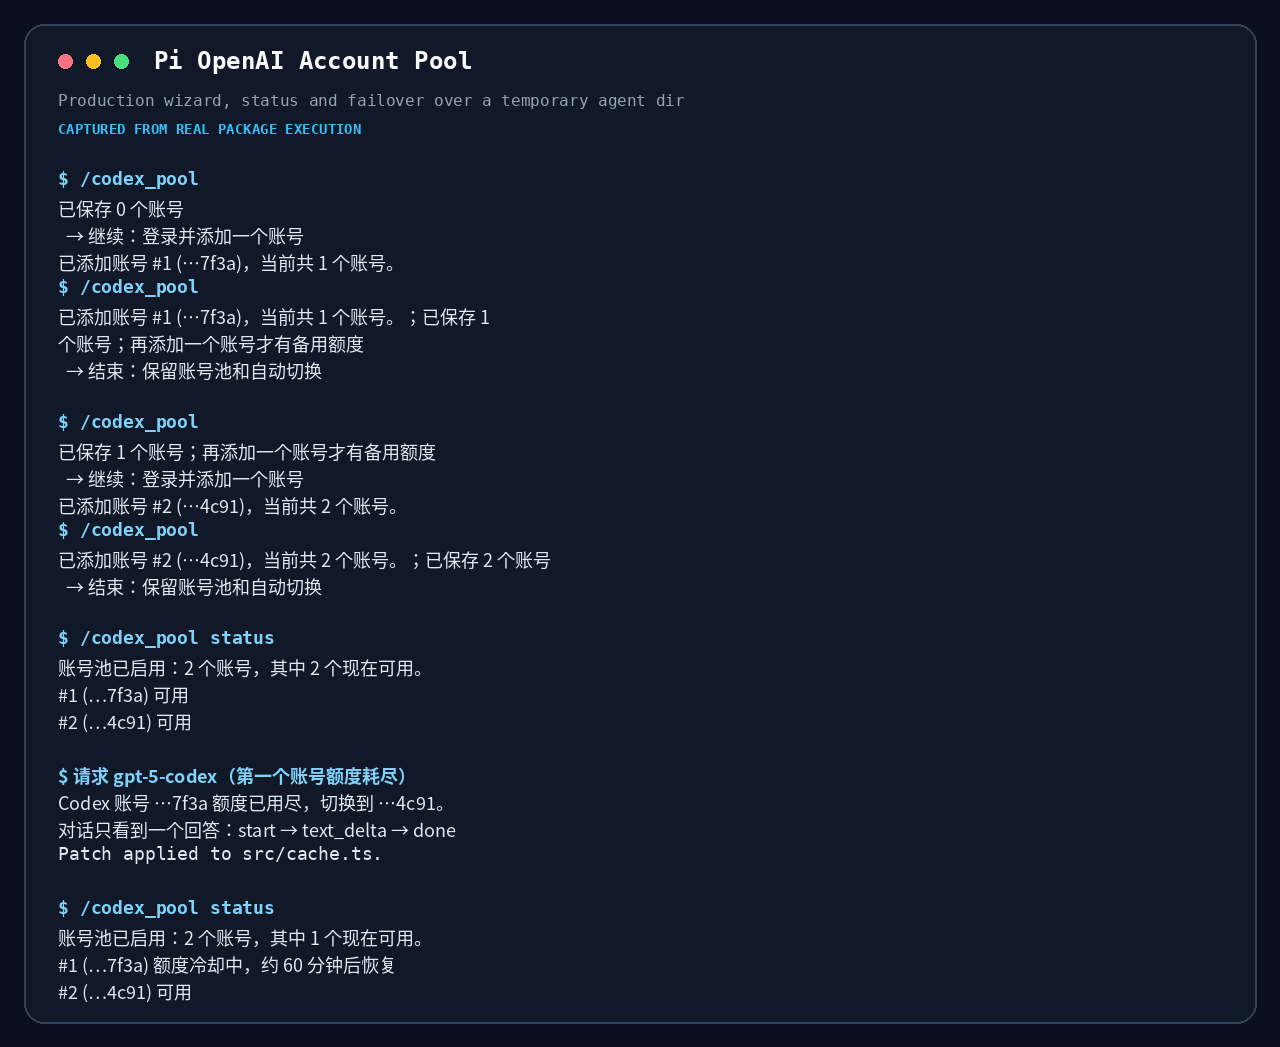
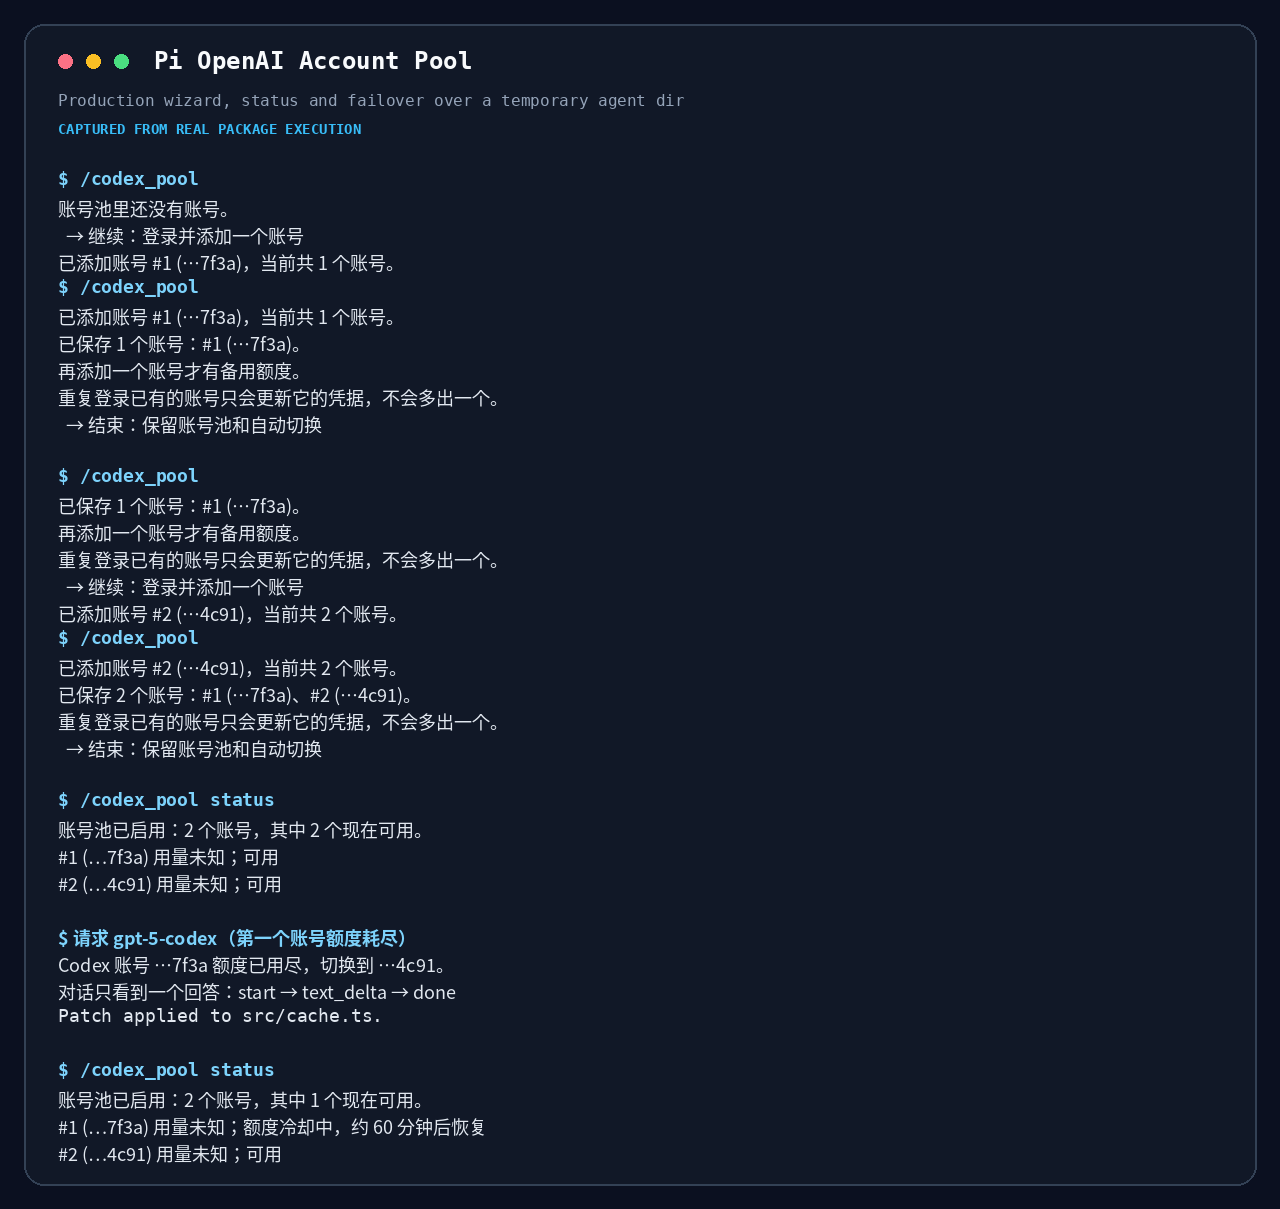
fix(account-pool): defer account preference to new sessions

Changed region(s): [[0.0312, 0.0, 0.9688, 0.978], [0.4062, 0.0611, 0.5, 0.1223]]

diff --git a/packages/openai-account-pool/extensions/openai-account-pool.ts b/packages/openai-account-pool/extensions/openai-account-pool.ts
@@ -40,7 +40,7 @@ const CONTINUE = "继续：登录并添加一个账号";
 const REMOVE = "删除：从账号池里移除一个账号";
 const END = "结束：保留账号池和自动切换";
 const BACK = "返回：什么都不做";
-const AUTOMATIC = "自动：按编号顺序，用着哪个顺手就留在哪个";
+const AUTOMATIC = "自动：新会话按编号顺序，用着哪个顺手就留在哪个";
 const DIALOG_TITLE = "添加 Codex 账号";
 const STATUS_WIDGET_KEY = "openai-account-pool-status";
 const STATUS_VISIBLE_MS = 15_000;
@@ -191,23 +191,23 @@ async function handleCommand(
 			const query = rest.join(" ");
 			if (query === "auto") {
 				await setDefaultAccount({ authPath, statePath, accountId: undefined });
-				ctx.ui.notify("已恢复自动选号。");
+				ctx.ui.notify("已恢复自动选号，将从下一个新会话开始生效；当前会话不变。");
 				return;
 			}
 			const accounts = [...snapshot.accounts].sort((left, right) => left.ordinal - right.ordinal);
 			const current = await readPreferredAccountId(statePath);
 			const chosen = query
 				? resolveAccount(snapshot, query)
-				: await pickAccount(ctx, `默认用哪个账号？当前：${current ? accountLabel(accounts.find((account) => account.id === current) ?? accounts[0]) : "自动"}`, accounts, [AUTOMATIC]);
+				: await pickAccount(ctx, `新会话默认用哪个账号？当前设置：${current ? accountLabel(accounts.find((account) => account.id === current) ?? accounts[0]) : "自动"}`, accounts, [AUTOMATIC]);
 			if (chosen === undefined) return;
 			if (chosen === AUTOMATIC) {
 				await setDefaultAccount({ authPath, statePath, accountId: undefined });
-				ctx.ui.notify("已恢复自动选号。");
+				ctx.ui.notify("已恢复自动选号，将从下一个新会话开始生效；当前会话不变。");
 				return;
 			}
 			const account = chosen as PoolAccount;
 			await setDefaultAccount({ authPath, statePath, accountId: account.id });
-			ctx.ui.notify(`以后从 ${accountLabel(account)} 开始。它额度用完或需要重新授权时，仍会自动切到其他账号。`);
+			ctx.ui.notify(`新会话将从 ${accountLabel(account)} 开始；当前会话不变。它额度用完或需要重新授权时，仍会自动切到其他账号。`);
 			return;
 		}
 
@@ -272,6 +272,7 @@ async function handleCommand(
 export default function openaiAccountPool(pi: ExtensionAPI) {
 	let base: Provider | undefined;
 	let latest: ExtensionContext | undefined;
+	let installedFor: ExtensionContext | undefined;
 	let statusPanel: { component: CodexPoolStatusWidget; tui: { requestRender(): void } } | undefined;
 	let statusController: AbortController | undefined;
 	let statusTimer: ReturnType<typeof setTimeout> | undefined;
@@ -327,41 +328,52 @@ export default function openaiAccountPool(pi: ExtensionAPI) {
 		})();
 	};
 
-	const install = (ctx: ExtensionContext) => {
+	const install = async (ctx: ExtensionContext) => {
 		latest = ctx;
+		if (installedFor === ctx) return;
 		const current = ctx.modelRegistry.getProvider(PROVIDER_ID);
-		if (!current || (current as Record<symbol, unknown>)[POOL_WRAPPER]) {
-			base ??= current;
-			return;
+		if (!current) return;
+		const wrappedBase = (current as Record<symbol, unknown>)[POOL_WRAPPER];
+		if (!base) {
+			if (wrappedBase && wrappedBase !== true) base = wrappedBase as Provider;
+			else if (wrappedBase === true) {
+				// Wrappers from older package versions do not retain their base provider.
+				// Keep them intact until the process restarts instead of wrapping twice.
+				installedFor = ctx;
+				return;
+			} else base = current;
 		}
-		base = current;
 		const { authPath, statePath } = agentPaths();
-		const wrapped = createPoolProvider(current, {
+		const preferredAccountId = await readPreferredAccountId(statePath);
+		const wrapped = createPoolProvider(base, {
 			lazyStream,
 			authPath,
 			statePath,
+			preferredAccountId,
 			// Switch notes go to whichever context is current when the request runs.
 			notify: (message) => latest?.ui.notify(message, "warning"),
 		});
-		Object.defineProperty(wrapped, POOL_WRAPPER, { value: true, enumerable: false });
+		Object.defineProperty(wrapped, POOL_WRAPPER, { value: base, enumerable: false });
 		ctx.modelRegistry.registerProvider(wrapped);
+		installedFor = ctx;
 	};
 
-	pi.on("session_start", (_event, ctx) => {
-		install(ctx);
+	pi.on("session_start", async (_event, ctx) => {
+		await install(ctx);
 	});
 
 	pi.on("session_shutdown", (_event, ctx) => {
 		statusGeneration += 1;
 		if (ctx.mode === "tui") clearStatusPanel(ctx);
-		latest = undefined;
+		if (latest === ctx) latest = undefined;
+		if (installedFor === ctx) installedFor = undefined;
 	});
 
 	pi.registerCommand("codex_pool", {
 		description: "添加并管理多个 ChatGPT 账号，额度耗尽时自动切换",
 		getArgumentCompletions: codexPoolArgumentCompletions,
 		handler: async (args, ctx) => {
-			install(ctx);
+			await install(ctx);
 			await handleCommand(args, ctx, () => base, showTuiStatus);
 		},
 	});

diff --git a/packages/openai-account-pool/src/provider.ts b/packages/openai-account-pool/src/provider.ts
@@ -20,7 +20,7 @@ import {
 	type PoolAccount,
 	type PoolSnapshot,
 } from "./auth.ts";
-import { claimProbeLease, readAvailability, readPreferredAccountId, readSelectionState, recordFailure, recordSuccess, releaseProbeLease } from "./availability.ts";
+import { claimProbeLease, readAvailability, recordFailure, recordSuccess, releaseProbeLease } from "./availability.ts";
 import {
 	classifyFailure,
 	decideFailover,
@@ -49,6 +49,8 @@ export interface PoolRuntime {
 	lazyStream: (model: Model<Api>, setup: () => Promise<AsyncIterable<AssistantMessageEvent>>) => AssistantMessageEventStream;
 	authPath: string;
 	statePath: string;
+	/** Global preference sampled when this session started. Later writes apply to later sessions. */
+	preferredAccountId?: string;
 	now?: () => number;
 	/** Identifies this process while probing a recovered account. */
 	probeOwner?: string;
@@ -176,8 +178,8 @@ export function createPoolProvider(base: Provider, runtime: PoolRuntime): Provid
 	const now = runtime.now ?? (() => Date.now());
 	const probeOwner = runtime.probeOwner ?? `pid-${process.pid}`;
 	const oauth = base.auth.oauth;
-	/** Sticky account of this process: keep using what works until it stops working. */
-	let sticky: string | undefined;
+	/** Sticky account of this session: start from its sampled preference, then keep what works. */
+	let sticky = runtime.preferredAccountId;
 
 	const refreshWith = async (credential: AuthEntry, signal: AbortSignal | undefined): Promise<AuthEntry> => {
 		if (!oauth) throw new Error("openai-codex provider has no OAuth support.");
@@ -292,7 +294,7 @@ export function createPoolProvider(base: Provider, runtime: PoolRuntime): Provid
 
 		while (true) {
 			if (options?.signal?.aborted) throw new Error("Request was aborted");
-			const { availability, preferredAccountId } = await readSelectionState({
+			const availability = await readAvailability({
 				statePath: runtime.statePath,
 				accounts: snapshot.accounts,
 				now: now(),
@@ -300,8 +302,7 @@ export function createPoolProvider(base: Provider, runtime: PoolRuntime): Provid
 				probeOwner,
 			});
 			lastAvailability = availability;
-			// A hand-picked account outranks this process's sticky one for as long as it is usable.
-			const chosen = selectAccount({ accounts: availability, preferredId: preferredAccountId ?? sticky, attemptedIds: attempted });
+			const chosen = selectAccount({ accounts: availability, preferredId: sticky, attemptedIds: attempted });
 			if (!chosen) {
 				// Query live usage only when the request began with no local candidate. Once a
 				// model attempt has failed, a sweep must not erase `attempted` and replay it.
@@ -494,9 +495,8 @@ export function createPoolProvider(base: Provider, runtime: PoolRuntime): Provid
 	): Promise<TOptions | undefined> {
 		if (!usesPool(model, options as StreamOptions | undefined)) return options;
 		const snapshot = await loadPoolSnapshot(runtime.authPath);
-		const preferredAccountId = await readPreferredAccountId(runtime.statePath);
 		const byId = (wanted: string | undefined) => (wanted ? snapshot.accounts.find((candidate) => candidate.id === wanted) : undefined);
-		const account = byId(preferredAccountId) ?? byId(sticky) ?? snapshot.accounts[0];
+		const account = byId(sticky) ?? snapshot.accounts[0];
 		if (!account) throw new Error("ChatGPT 账号池没有可用账号，请运行 /codex_pool 添加账号。");
 		const fresh = await ensureFreshAccountCredential({
 			authPath: runtime.authPath,

diff --git a/packages/openai-account-pool/src/enrollment.ts b/packages/openai-account-pool/src/enrollment.ts
@@ -187,6 +187,7 @@ export interface AccountStatusLine {
 	state: AccountState;
 	detail: string;
 	isCurrent: boolean;
+	isPreferredForNextSession: boolean;
 }
 
 export interface PoolStatus {
@@ -198,7 +199,7 @@ export interface PoolStatus {
 }
 
 /**
- * Pins the account every process starts from, or returns to automatic order with `undefined`.
+ * Sets the account future sessions start from, or returns to automatic order with `undefined`.
  * Failover still applies: a pinned account that runs out of quota hands the request on.
  */
 export async function setDefaultAccount(input: { authPath: string; statePath: string; accountId: string | undefined }): Promise<PoolAccount | undefined> {
@@ -258,11 +259,12 @@ export async function poolStatus(input: {
 		const account = snapshot.accounts[index];
 		const label = accountLabel(account);
 		const isCurrent = account.id === state.currentAccountId;
+		const isPreferredForNextSession = account.id === state.preferredAccountId;
 		const live = refreshById.get(account.id);
 		const usage = live?.usage ?? storedUsage(state.accounts[account.id]);
 		const usageText = live?.error ? "用量未知" : describeUsage(usage, now) ?? "用量未知";
-		if (entry.authInvalid) return { label, state: "reauth", detail: "需要重新授权，运行 /codex_pool 重新登录这个账号", isCurrent };
-		if (entry.unavailable?.reason === "probe_in_progress") return { label, state: "probing", detail: "另一个进程正在重试", isCurrent };
+		if (entry.authInvalid) return { label, state: "reauth", detail: "需要重新授权，运行 /codex_pool 重新登录这个账号", isCurrent, isPreferredForNextSession };
+		if (entry.unavailable?.reason === "probe_in_progress") return { label, state: "probing", detail: "另一个进程正在重试", isCurrent, isPreferredForNextSession };
 		if (entry.unavailable || (usage && !usageAvailable(usage))) {
 			const reset = entry.unavailable?.serverResetAtMs;
 			return {
@@ -270,9 +272,10 @@ export async function poolStatus(input: {
 				state: "cooling",
 				detail: `${usageText}；${reset ? `额度冷却中，约 ${Math.max(1, Math.round((reset - now) / 60_000))} 分钟后恢复` : "额度暂不可用"}`,
 				isCurrent,
+				isPreferredForNextSession,
 			};
 		}
-		return { label, state: "ready", detail: `${usageText}；${entry.needsProbe ? "冷却已过，下次请求会先试这个账号" : "可用"}`, isCurrent };
+		return { label, state: "ready", detail: `${usageText}；${entry.needsProbe ? "冷却已过，下次请求会先试这个账号" : "可用"}`, isCurrent, isPreferredForNextSession };
 	});
 
 	const ready = accounts.filter((entry) => entry.state === "ready").length;

diff --git a/packages/openai-account-pool/src/status-widget.ts b/packages/openai-account-pool/src/status-widget.ts
@@ -17,7 +17,7 @@ function stateColor(state: AccountState): "success" | "warning" | "error" {
 }
 
 export function formatAccountStatusLine(account: PoolStatus["accounts"][number]): string {
-	return `${account.label} ${account.detail}${account.isCurrent ? " ●当前" : ""}`;
+	return `${account.label} ${account.detail}${account.isPreferredForNextSession ? " ★下次" : ""}${account.isCurrent ? " ●当前" : ""}`;
 }
 
 export class CodexPoolStatusWidget {
@@ -51,9 +51,9 @@ export class CodexPoolStatusWidget {
 		for (const account of this.status?.accounts ?? []) {
 			const color = stateColor(account.state);
 			const base = `  ${this.theme.fg(color, marker(account.state))} ${this.theme.fg("accent", account.label)} ${this.theme.fg("text", account.detail)}`;
-			const current = account.isCurrent ? ` ${this.theme.fg("accent", "●当前")}` : "";
-			const baseWidth = Math.max(0, width - visibleWidth(current));
-			lines.push(`${truncateToWidth(base, baseWidth)}${current}`);
+			const suffix = `${account.isPreferredForNextSession ? ` ${this.theme.fg("accent", "★下次")}` : ""}${account.isCurrent ? ` ${this.theme.fg("accent", "●当前")}` : ""}`;
+			const baseWidth = Math.max(0, width - visibleWidth(suffix));
+			lines.push(`${truncateToWidth(base, baseWidth)}${suffix}`);
 		}
 		return lines;
 	}

diff --git a/packages/openai-account-pool/src/availability.ts b/packages/openai-account-pool/src/availability.ts
@@ -87,23 +87,11 @@ export async function readAvailability(input: {
 	return availabilityFor({ ...input, state: await readPoolState(input.statePath) });
 }
 
-/** Availability and the manual preference from one read, so a request sees one consistent state. */
-export async function readSelectionState(input: {
-	statePath: string;
-	accounts: readonly PoolAccount[];
-	now: number;
-	modelId?: string;
-	probeOwner?: string;
-}): Promise<{ availability: AccountAvailability[]; preferredAccountId?: string }> {
-	const state = await readPoolState(input.statePath);
-	return { availability: availabilityFor({ ...input, state }), preferredAccountId: state.preferredAccountId };
-}
-
 export async function readPreferredAccountId(statePath: string): Promise<string | undefined> {
 	return (await readPoolState(statePath)).preferredAccountId;
 }
 
-/** Pins the account every process starts from, or clears the pin when given `undefined`. */
+/** Sets the account future sessions start from, or clears the preference with `undefined`. */
 export async function setPreferredAccountId(input: { statePath: string; accountId: string | undefined }): Promise<void> {
 	await withPoolStateTransaction(input.statePath, (state) => {
 		if (state.preferredAccountId === input.accountId) return { result: undefined };

diff --git a/packages/openai-account-pool/src/store.ts b/packages/openai-account-pool/src/store.ts
@@ -174,7 +174,7 @@ export interface PoolStateFile {
 	schemaVersion: number;
 	policy: "sticky";
 	accounts: Record<string, AccountStateRecord>;
-	/** Account the user picked by hand. Outranks the per-process sticky choice while usable. */
+	/** Global preference sampled by each new session; changes do not reroute running sessions. */
 	preferredAccountId?: string;
 	/** Account that most recently completed a model request successfully. */
 	currentAccountId?: string;

diff --git a/packages/openai-account-pool/src/policy.ts b/packages/openai-account-pool/src/policy.ts
@@ -128,7 +128,7 @@ export interface AccountAvailability {
 
 export interface SelectionInput {
 	accounts: AccountAvailability[];
-	/** Sticky preference of this process: keep using the account that currently works. */
+	/** Sticky preference of this session: keep using the account that currently works. */
 	preferredId?: string;
 	/** Accounts this logical request already tried, so no account is tried twice. */
 	attemptedIds: readonly string[];

diff --git a/packages/openai-account-pool/README.md b/packages/openai-account-pool/README.md
@@ -26,8 +26,8 @@ Update it with `pi update npm:@maxiaochao/pi-openai-account-pool`. Installing al
 
 ```text
 /codex_pool                 添加账号：反复确认「继续 / 删除 / 结束」，继续一次就登录一个账号
-/codex_pool status          输入框上方立即显示彩色临时面板并在后台查询官网 5 小时/周额度；最近成功使用的账号在行末标 ●当前
-/codex_pool use             下拉选择默认从哪个账号开始（`use auto` 恢复自动）
+/codex_pool status          输入框上方立即显示彩色临时面板并在后台查询官网 5 小时/周额度；标出 ★下次 与 ●当前
+/codex_pool use             下拉选择新会话默认从哪个账号开始（`use auto` 恢复自动）
 /codex_pool remove          下拉选择要删除的账号（也可写 `remove 2` 或 `remove 邮箱`）
 /codex_pool off             恢复原生单账号登录
 ```
@@ -53,7 +53,7 @@ Update it with `pi update npm:@maxiaochao/pi-openai-account-pool`. Installing al
 
 - 凭据的权威来源仍是 `~/.pi/agent/auth.json`：每个账号一条独立条目，主 `openai-codex` 条目只存非秘密引用，不能当令牌使用。
 - 冷却与探测状态放在 `~/.pi/agent/openai-account-pool/state.json`，同机多个 pi 进程共享：一个进程撞到的额度上限，另一个进程下一次请求就会跳过。
-- 默认 sticky：一直用当前可用的账号，不轮询分摊。`/codex_pool use` 指定下次优先尝试哪个账号，跨进程生效，但 status 不给这个设置加徽标；只有最近成功承接模型请求的账号显示 `●当前`。它额度用完或需要重新授权时仍会自动切走。
+- 默认 sticky：一个会话一直用当前可用的账号，不轮询分摊。`/codex_pool use` 修改全局的新会话首选账号；设置后当前会话和已经运行的 subagent 不变，之后启动的普通会话和 subagent 才读取新值，避免运行中切换账号破坏提示缓存关联。`status` 用 `★下次` 标首选账号，用 `●当前` 标最近成功承接请求的账号。首选账号额度用完或需要重新授权时仍会自动切走。
 - 令牌过期是自动处理的：每次请求前在 `auth.json` 锁下用 refresh token 刷新，多进程只会兑换一次。只有 refresh token 本身被证明失效时才标为需重新授权，此时跑 `/codex_pool` 重新登录该账号即可。
 - 每个逻辑请求里每个账号最多作为一次切换候选；全部不可用时立即返回每个账号的脱敏状态，不会后台等待几小时。
 - 服务器给出恢复时间就显示恢复时间；没有给出就显示「未知」，只做短时本地探测退避。

diff --git a/packages/openai-account-pool/TESTING.md b/packages/openai-account-pool/TESTING.md
@@ -15,7 +15,7 @@ Every test runs against an isolated temporary agent directory with fixture crede
 - `tests/command-completions.mjs` covers slash-command argument completion, including the real TUI regression where returning an identical completion for a fully typed `status` consumed the first Enter instead of submitting the command.
 - `tests/enrollment.mjs` covers the `/codex_pool` loop: repeated continue adds more than two accounts, an existing plain login is migrated instead of replaced, ending immediately changes nothing, failures are redacted, cancelling keeps what was already saved, two processes cannot enroll at once, and status/off/remove speak in masked labels.
 - `tests/usage.mjs` covers live `wham/usage` normalization and headers, OAuth refresh, sequential account queries, bounded response size and time, non-secret failures, stale-observation races, cross-process probe leases, model-scoped recovery estimates, stored exhaustion after a failed live lookup, and the immediately rendered colored status widget with loading state and line-final `●当前`. Every HTTP path uses an injected fixture transport.
-- `tests/failover-stream.mjs` runs through real pi-ai stream plumbing: one external start, no replay after output, a repaired 401, websocket-style evidence, cancellation, one live-usage sweep when all accounts are locally unavailable, recovered-account selection, and exhausted-pool earliest-ready messages.
+- `tests/failover-stream.mjs` runs through real pi-ai stream plumbing: one external start, no replay after output, a repaired 401, websocket-style evidence, cancellation, session-scoped preference sampling, one live-usage sweep when all accounts are locally unavailable, recovered-account selection, and exhausted-pool earliest-ready messages.
 - `tests/multiprocess.mjs` spawns real child processes: two pi processes racing an expired rotating refresh token exchange it exactly once and converge on the same credential, concurrent writes from five processes lose no entry, and a valid credential is never refreshed.
 - `tests/integration-login-ownership.mjs` uses the real `Models` implementation to show that a second plain login still overwrites the first, and that the pool keeps every account.
 

diff --git a/packages/openai-account-pool/CHANGELOG.md b/packages/openai-account-pool/CHANGELOG.md
@@ -1,3 +1,7 @@
+## Unreleased
+
+- Make `/codex_pool use` a global next-session preference: existing sessions keep their sampled account for prompt-cache stability, new sessions and subagents read the updated choice, and status marks it as `★下次` separately from `●当前`.
+
 ## 2026-10-14 - v0.1.2
 
 - document that toolkit 0.11.9 was the last version to embed this package

diff --git a/CHANGELOG.md b/CHANGELOG.md
@@ -1,3 +1,7 @@
+## Unreleased
+
+- OpenAI Account Pool: apply `/codex_pool use` only to new sessions and subagents, preserving the current session's account for prompt-cache stability and labeling the global choice as `★下次` in status.
+
 ## 2026-10-14 - v0.11.10
 
 - openai-account-pool v0.1.2: document that toolkit 0.11.9 was the last version to embed this package
